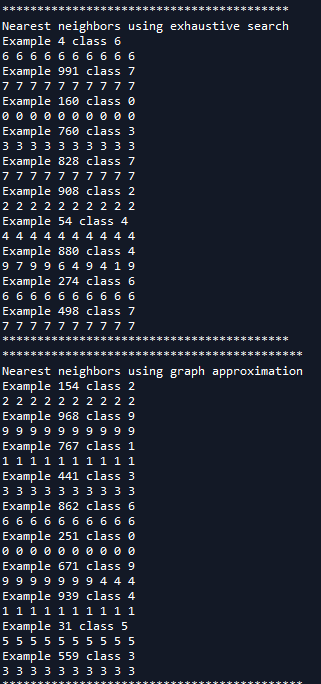
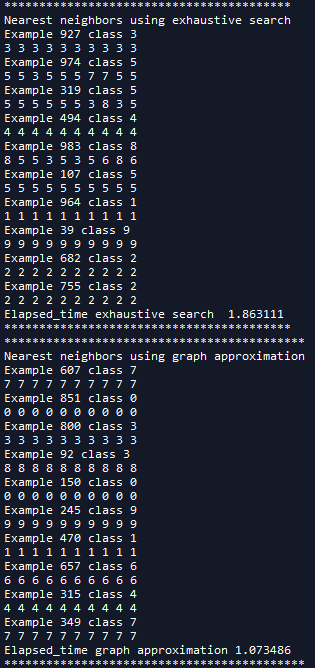
time code execution and updated output demo

Changed region(s): [[0.0, 0.0, 0.9714, 1.0]]

diff --git a/Exercises/Exercise5/exercise 2 knn start.py b/Exercises/Exercise5/exercise 2 knn start.py
@@ -254,6 +254,7 @@ if __name__ == "__main__":
     
     print("*****************************************")
     print('Nearest neighbors using exhaustive search')
+    start = time.time()
     for i in sample:
         nn = nearest_neighbors(X_train,X_test[i],k)
         
@@ -263,7 +264,8 @@ if __name__ == "__main__":
             #print(a,end=' ')#Fuentes
             print(y_train[a],end=' ')#Modified to give sample values(0-9) instead of just indices  
         print()
-    
+    elapsed_time = time.time()-start
+    print('Elapsed_time exhaustive search  {0:.6f} '.format(elapsed_time))   
     print("*****************************************")
     
     #-------------------graph_nearest_neighbors()------------------------------
@@ -272,7 +274,7 @@ if __name__ == "__main__":
     k=10
     print("*******************************************")
     print('Nearest neighbors using graph approximation')   
-    
+    start = time.time()
     for i in sample:
         
         nn = graph_nearest_neighbors(X_test[i],X_train ,nng,k)
@@ -282,5 +284,6 @@ if __name__ == "__main__":
         for a in nn:
             print(y_train[a],end=' ')##Modified to give sample values(0-9) instead of just indices  
         print()
-        
+    elapsed_time = time.time()-start
+    print('Elapsed_time graph approximation {0:.6f} '.format(elapsed_time))
     print("*******************************************")
